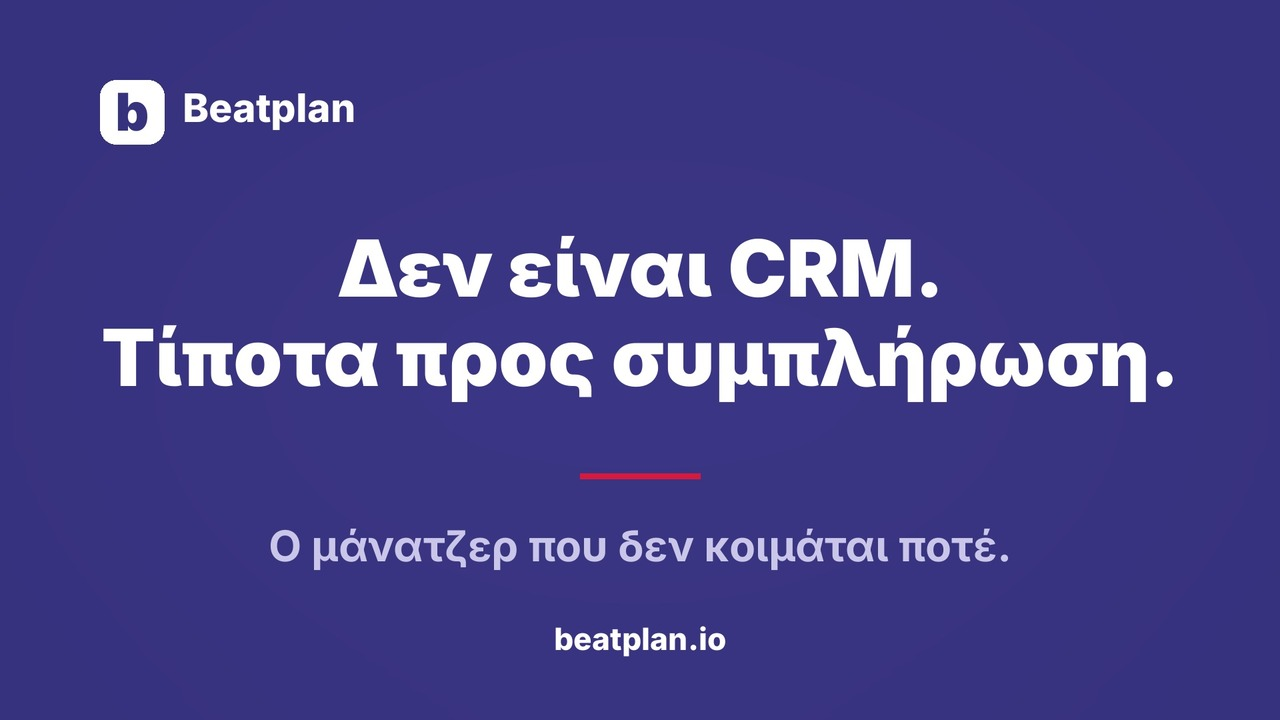
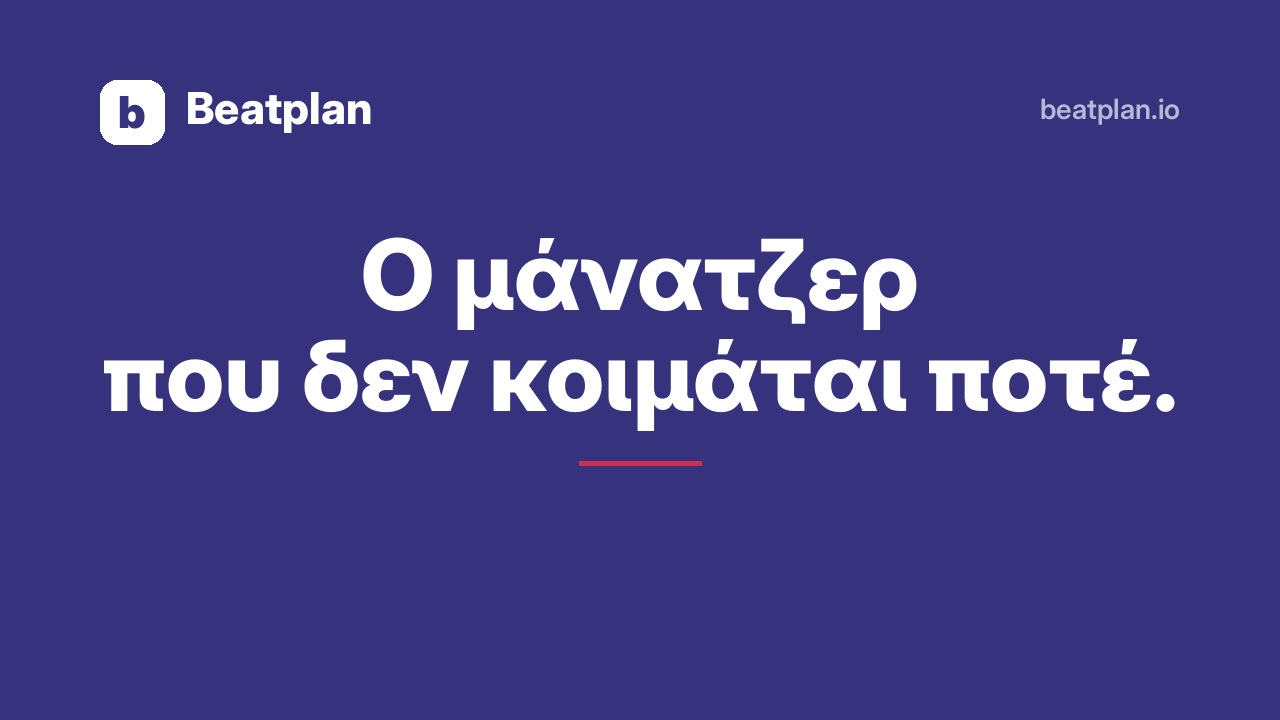
Open on the two minutes, in every market
The video was a separate page reached from a nav link. It is now the first
thing a visitor sees on each market's home page, labelled "Understand Beatplan
in 2 minutes" and carrying that market's own cast: European, African by time
zone, Greek under /el/. /video/ and /el/video/ keep working for links already
sent out, retitled to match.

The hero is four grid children instead of two so the player stacks between the
headline and the lede on a phone, inside the first screen, without the
headline moving. The phone mock stays under the player on desktop, where it
also carries the only data-eu markup on the page.

Poster rebuilt on the tagline: it used to repeat the hero pill word for word,
and its bottom third sat under the browser's own control bar.

Claude-Session: https://claude.ai/code/session_01BX3qPKaZ8uLsjM8UpPPava

diff --git a/el/index.html b/el/index.html
@@ -34,7 +34,7 @@
       <a href="#does">Τι κάνει</a>
       <a href="#scenarios">Περιπτώσεις</a>
       <a href="#custom">Προσαρμογή</a>
-      <a href="/el/video/">Το βίντεο</a>
+      <a href="#watch">Σε 2 λεπτά</a>
       <a href="#start">Αξιολόγηση</a>
       <a href="/?lang=en" hreflang="en">EN</a>
     </nav>
@@ -46,17 +46,60 @@
 <section class="hero">
   <div class="wrap">
   <div class="hero-grid">
-    <div>
+    <div class="hero-copy">
       <div class="pill"><span class="dot"></span> Δεν είναι CRM. Τίποτα προς συμπλήρωση.</div>
       <h1>Κάθε πρωί, το πλάνο.<br>Όχι άλλη μια βάση δεδομένων.</h1>
-      <p class="lede" style="margin-top:1.2rem">
+    </div>
+
+    <div class="hero-vid">
+      <div class="herovid" id="watch">
+        <p class="vlabel">Καταλάβετε το Beatplan σε 2 λεπτά</p>
+        <video controls playsinline preload="none"
+               poster="/img/beatplan-video-el-poster.jpg">
+          <source src="/img/beatplan-video-el.mp4" type="video/mp4">
+          Ο browser σας δεν μπορεί να το παίξει. <a href="/el/video/">Ανοίξτε το σε δική του σελίδα.</a>
+        </video>
+        <p class="caption">Τι ανοίγει ο πωλητής, τι ανοίγουν οι εισπράξεις, τι βλέπει η διοίκηση,
+          και τι υπολόγισε το Beatplan μέσα στη νύχτα.</p>
+      </div>
+
+      <div class="herodev">
+        <div class="device">
+          <div class="device-top"><strong>Σήμερα</strong><span>Τρίτη &middot; 9 κλήσεις</span></div>
+          <div class="device-body">
+            <div class="row">
+              <div class="row-head"><span class="row-name">Αρτοποιία Λενάκη</span><span class="row-val">&euro;14.200 / έτος</span></div>
+              <p class="row-why">Καμία παραγγελία 7 εβδομάδες. Συνήθως παραγγέλνει κάθε 12 ημέρες.</p>
+              <span class="tag tag-brand">Αγοράζει συνήθως: αλεύρι, μαγιά, συσκευασία</span>
+            </div>
+            <div class="row">
+              <div class="row-head"><span class="row-name">Μίνι Μάρκετ Ριζάκη</span><span class="row-val">&euro;8.900 οφειλή</span></div>
+              <p class="row-why">Υποσχέθηκε πληρωμή την περασμένη Παρασκευή. Δεν ήρθε τίποτα.</p>
+              <span class="tag tag-alarm">60 ημέρες ληξιπρόθεσμο</span>
+            </div>
+            <div class="row">
+              <div class="row-head"><span class="row-name">Τρόφιμα Βορρά</span><span class="row-val">&euro;21.400 / έτος</span></div>
+              <p class="row-why">Παρήγγελνε ζάχαρη κάθε μήνα επί δύο χρόνια. Τίποτα από τον Μάρτιο.</p>
+              <span class="tag tag-alarm">Μην προσφέρετε Ηλιέλαιο 5L, έχουμε έλλειψη</span>
+            </div>
+          </div>
+        </div>
+        <p class="caption">Η πραγματική οθόνη που ανοίγει ο πωλητής σας. Χωρίς dashboard, χωρίς πεδίο αναζήτησης.</p>
+      </div>
+    </div>
+
+    <div class="hero-lede">
+      <p class="lede">
         Στη διανομή, <em>beat</em> λέγεται ο γύρος που καλύπτει ένας πωλητής, και από εκεί ξεκίνησε.
         Σήμερα τρέχει με τον ίδιο τρόπο και την υπόλοιπη εταιρεία: διαβάζει τα αρχεία που ήδη
         παράγετε, βρίσκει τι ξέφυγε, και δίνει σε κάθε άνθρωπο και κάθε τμήμα
         <strong style="color:var(--ink)">τη λίστα του για το πρωί, με τον λόγο γραμμένο δίπλα</strong>.
         Χωρίς pipeline. Χωρίς στάδια. Χωρίς να συμπληρώσει κανείς τίποτα πρώτα.
       </p>
-      <div class="btn-row" style="margin-top:2rem">
+    </div>
+
+    <div class="hero-cta">
+      <div class="btn-row">
         <a class="btn btn-solid btn-lg" href="/el/assessment/">Ζητήστε αξιολόγηση</a>
         <a class="btn btn-ghost btn-lg" href="#how">Πώς δουλεύει</a>
       </div>
@@ -67,29 +110,6 @@
         <span>Κάθε τμήμα, όχι μόνο οι πωλήσεις</span>
         <span>Τιμή ανά εταιρεία</span>
       </div>
-    </div>
-    <div>
-      <div class="device">
-        <div class="device-top"><strong>Σήμερα</strong><span>Τρίτη · 9 κλήσεις</span></div>
-        <div class="device-body">
-          <div class="row">
-            <div class="row-head"><span class="row-name">Αρτοποιία Λενάκη</span><span class="row-val">€14.200 / έτος</span></div>
-            <p class="row-why">Καμία παραγγελία 7 εβδομάδες. Συνήθως παραγγέλνει κάθε 12 ημέρες.</p>
-            <span class="tag tag-brand">Αγοράζει συνήθως: αλεύρι, μαγιά, συσκευασία</span>
-          </div>
-          <div class="row">
-            <div class="row-head"><span class="row-name">Μίνι Μάρκετ Ριζάκη</span><span class="row-val">€8.900 οφειλή</span></div>
-            <p class="row-why">Υποσχέθηκε πληρωμή την περασμένη Παρασκευή. Δεν ήρθε τίποτα.</p>
-            <span class="tag tag-alarm">60 ημέρες ληξιπρόθεσμο</span>
-          </div>
-          <div class="row">
-            <div class="row-head"><span class="row-name">Τρόφιμα Βορρά</span><span class="row-val">€21.400 / έτος</span></div>
-            <p class="row-why">Παρήγγελνε ζάχαρη κάθε μήνα επί δύο χρόνια. Τίποτα από τον Μάρτιο.</p>
-            <span class="tag tag-alarm">Μην προσφέρετε Ηλιέλαιο 5L, έχουμε έλλειψη</span>
-          </div>
-        </div>
-      </div>
-      <p class="caption">Η πραγματική οθόνη που ανοίγει ο πωλητής σας. Χωρίς dashboard, χωρίς πεδίο αναζήτησης.</p>
     </div>
   </div>
   </div>
@@ -408,9 +428,9 @@
       </div>
     </div>
     <p class="small" style="margin:-2rem 0 3.2rem">
-        Αυτό ήταν το προϊόν σε είκοσι δευτερόλεπτα. <a href="/el/video/"><strong>Δείτε ολόκληρο το
-        βίντεο των δύο λεπτών</strong></a>: τι ανοίγει κάθε τμήμα το πρωί, και τι υπολόγισε το
-        Beatplan μέσα στη νύχτα.
+        Αυτό ήταν το προϊόν σε είκοσι δευτερόλεπτα. <a href="#watch"><strong>Τα δύο λεπτά στην
+        κορυφή της σελίδας</strong></a> δείχνουν τι ανοίγει κάθε τμήμα το πρωί, και τι υπολόγισε
+        το Beatplan μέσα στη νύχτα.
       </p>
 
     <div class="shots">

diff --git a/index.html b/index.html
@@ -54,7 +54,7 @@
       <a href="#scenarios">Scenarios</a>
       <a href="#custom">Customisation</a>
       <a href="#see">See it</a>
-      <a href="/video/">The video</a>
+      <a href="#watch">In 2 minutes</a>
       <a href="#start">Assessment</a>
     </nav>
     <a class="btn btn-ghost" href="https://app.beatplan.io/">Sign in</a>
@@ -64,17 +64,60 @@
 <!-- hero -->
 <div class="wrap hero">
   <div class="hero-grid">
-    <div>
+    <div class="hero-copy">
       <div class="pill"><span class="dot"></span> Not a CRM. Nothing to fill in.</div>
       <h1>Every morning, the plan.<br>Not another database.</h1>
-      <p class="lede" style="margin-top:1.2rem">
+    </div>
+
+    <div class="hero-vid">
+      <div class="herovid" id="watch">
+        <p class="vlabel">Understand Beatplan in 2 minutes</p>
+        <video id="launch" controls playsinline preload="none"
+               poster="/img/beatplan-video-en-poster.jpg">
+          <source id="launchsrc" src="/img/beatplan-video-en.mp4" type="video/mp4">
+          Your browser cannot play this. <a href="/video/">Open it on its own page.</a>
+        </video>
+        <p class="caption">What the salesman opens, what collections opens, what ownership sees,
+          and what Beatplan worked out during the night.</p>
+      </div>
+
+      <div class="herodev">
+        <div class="device">
+          <div class="device-top"><strong>Today</strong><span>Tuesday &middot; 9 to call</span></div>
+          <div class="device-body">
+            <div class="row">
+              <div class="row-head"><span class="row-name" data-eu="Boulangerie Lenoir">Riverside Bakery</span><span class="row-val" data-eu="&euro;14,200 / yr">$14,200 / yr</span></div>
+              <p class="row-why">No order for 7 weeks. Usually orders every 12 days.</p>
+              <span class="tag tag-brand">Usually buys: flour, yeast, packaging</span>
+            </div>
+            <div class="row">
+              <div class="row-head"><span class="row-name" data-eu="Mercado Ribeiro">Meridian Superstores</span><span class="row-val" data-eu="&euro;8,900 owing">$8,900 owing</span></div>
+              <p class="row-why">Promised payment last Friday. Nothing received.</p>
+              <span class="tag tag-alarm">60 days overdue</span>
+            </div>
+            <div class="row">
+              <div class="row-head"><span class="row-name" data-eu="Nordkern Lebensmittel">Northgate Foods</span><span class="row-val" data-eu="&euro;21,400 / yr">$21,400 / yr</span></div>
+              <p class="row-why">Ordered sugar monthly for two years. Nothing since March.</p>
+              <span class="tag tag-alarm">Do not offer Sunflower Oil 5L, we are short</span>
+            </div>
+          </div>
+        </div>
+        <p class="caption">The actual screen your salesman opens. No dashboard, no search box.</p>
+      </div>
+    </div>
+
+    <div class="hero-lede">
+      <p class="lede">
         A <em>beat</em> is the round a salesman covers, and that is where this started. It now runs
         the rest of the company the same way: it reads the records you already produce, works out
         what has slipped, and hands every person and every department
         <strong style="color:var(--ink)">their list for the morning, with the reason attached</strong>.
         No pipeline. No stages. Nothing to fill in before it works.
       </p>
-      <div class="btn-row" style="margin-top:2rem">
+    </div>
+
+    <div class="hero-cta">
+      <div class="btn-row">
         <a class="btn btn-solid btn-lg" href="/assessment/">Book an assessment</a>
         <a class="btn btn-ghost btn-lg" href="#how">How it works</a>
       </div>
@@ -85,29 +128,6 @@
         <span>Every department, not only sales</span>
         <span>Priced per company</span>
       </div>
-    </div>
-    <div>
-      <div class="device">
-        <div class="device-top"><strong>Today</strong><span>Tuesday · 9 to call</span></div>
-        <div class="device-body">
-          <div class="row">
-            <div class="row-head"><span class="row-name" data-eu="Boulangerie Lenoir">Riverside Bakery</span><span class="row-val" data-eu="€14,200 / yr">$14,200 / yr</span></div>
-            <p class="row-why">No order for 7 weeks. Usually orders every 12 days.</p>
-            <span class="tag tag-brand">Usually buys: flour, yeast, packaging</span>
-          </div>
-          <div class="row">
-            <div class="row-head"><span class="row-name" data-eu="Mercado Ribeiro">Meridian Superstores</span><span class="row-val" data-eu="€8,900 owing">$8,900 owing</span></div>
-            <p class="row-why">Promised payment last Friday. Nothing received.</p>
-            <span class="tag tag-alarm">60 days overdue</span>
-          </div>
-          <div class="row">
-            <div class="row-head"><span class="row-name" data-eu="Nordkern Lebensmittel">Northgate Foods</span><span class="row-val" data-eu="€21,400 / yr">$21,400 / yr</span></div>
-            <p class="row-why">Ordered sugar monthly for two years. Nothing since March.</p>
-            <span class="tag tag-alarm">Do not offer Sunflower Oil 5L, we are short</span>
-          </div>
-        </div>
-      </div>
-      <p class="caption">The actual screen your salesman opens. No dashboard, no search box.</p>
     </div>
   </div>
 </div>
@@ -419,9 +439,9 @@
       </div>
     </div>
     <p class="small" style="margin:-2rem 0 3.2rem">
-        That was the product in twenty seconds. <a href="/video/"><strong>Watch the full two minute
-        video</strong></a> for what each department opens in the morning, and what Beatplan worked
-        out during the night.
+        That was the product in twenty seconds. <a href="#watch"><strong>The two minutes at the top
+        of this page</strong></a> show what each department opens in the morning, and what Beatplan
+        worked out during the night.
       </p>
 
     <div class="shots">
@@ -628,6 +648,17 @@
       location.replace('/el/'); return;
     }
   } catch (e) { if (tz === 'Europe/Athens' && location.search.indexOf('lang=en') === -1) { location.replace('/el/'); return; } }
+
+  /* Casting is per market, so an African visitor must not be watching the
+     European cut. Same time zone test and the same file as /video/ uses.
+     This sits ABOVE the Europe guard deliberately: below it an Africa/ zone
+     returns one line earlier and the swap would silently never run. The swap
+     is safe after parsing because preload is none, so no bytes have been
+     fetched for either cut until the visitor presses play. */
+  if (/^Africa\//.test(tz)) {
+    var av = document.getElementById('launch'), asrc = document.getElementById('launchsrc');
+    if (av && asrc) { asrc.src = '/img/beatplan-video-af.mp4'; av.load(); }
+  }
 
   if (!/^Europe\//.test(tz)) return;
   document.documentElement.setAttribute('data-region', 'eu');

diff --git a/app.css b/app.css
@@ -49,9 +49,27 @@ header{position:sticky; top:0; z-index:50; background:rgba(255,255,255,.9); back
 .btn-ghost{border-color:var(--line); color:var(--ink); background:#fff}
 .btn-lg{padding:.95rem 1.8rem; font-size:1.02rem}
 .btn-row{display:flex; flex-wrap:wrap; gap:.8rem}
-.hero{padding:4.5rem 0 4rem}
-.hero-grid{display:grid; gap:3.5rem; align-items:center}
-@media(min-width:960px){.hero-grid{grid-template-columns:1.05fr .95fr; gap:4rem}}
+/* padding-block, not the padding shorthand. On the English page the classes
+   are on one element, <div class="wrap hero">, and the shorthand's 0 wiped the
+   1.5rem side padding .wrap supplies: at 390px the headline and now the video
+   ran edge to edge with no gutter. The Greek page nests them and never showed
+   it. Logical axis only, so .wrap keeps the inline padding. */
+.hero{padding-block:4.5rem 4rem}
+/* Four children, not two: the headline, the video, the lede and the call to
+   action. On a phone they stack in DOM order, so the player sits between the
+   headline and the explanation and is fully inside the first screen. Stacked
+   any later it fell below the fold: the Greek lede alone runs ten lines at
+   390px. The headline still comes first and is never pushed off.
+   On desktop the video is placed explicitly in column two and spans all three
+   rows, so the left column still reads headline, lede, buttons. */
+.hero-grid{display:grid; gap:1.8rem}
+@media(min-width:960px){
+  .hero-grid{grid-template-columns:1.05fr .95fr; column-gap:4rem; row-gap:1.4rem; align-items:start}
+  .hero-copy{grid-column:1; grid-row:1}
+  .hero-lede{grid-column:1; grid-row:2}
+  .hero-cta {grid-column:1; grid-row:3; margin-top:.8rem}
+  .hero-vid {grid-column:2; grid-row:1 / span 3; align-self:center}
+}
 .pill{display:inline-flex; align-items:center; gap:.5rem; background:var(--brand-soft); color:var(--brand-ink);
   border-radius:999px; padding:.4rem .9rem; font-size:.82rem; font-weight:600; margin-bottom:1.5rem}
 .dot{width:7px;height:7px;border-radius:50%;background:var(--good)}
@@ -132,3 +150,24 @@ footer{border-top:1px solid var(--line); padding:3rem 0 4rem; font-size:.9rem}
 .vidwrap video{width:100%;max-width:300px;border:1px solid #e3e3ee;border-radius:18px;
   box-shadow:0 10px 30px rgba(20,20,45,.10);display:block;margin:0 auto;background:#fff}
 .vidwrap h3{margin:0 0 .6rem}
+
+/* The two minute video, in the hero of every market's home page (22 Oct 2026).
+   aspect-ratio reserves the 16:9 box before the poster paints, so the hero
+   does not reflow under the visitor on a slow connection, and the background
+   is the brand purple rather than black because the poster is brand purple:
+   a black flash on first paint reads as a broken file. */
+.herovid{max-width:34rem; margin:0 auto; width:100%; scroll-margin-top:6rem}
+.herovid video{width:100%; aspect-ratio:16/9; display:block; background:#37327e;
+  border:1px solid var(--line); border-radius:16px; box-shadow:var(--shadow-lg)}
+.vlabel{margin:0 0 .75rem; text-align:center; font-weight:800; font-size:1.05rem;
+  letter-spacing:-.01em; color:var(--ink)}
+
+/* The phone mock keeps its place under the player on desktop, where the right
+   column is taller than the video and would otherwise end in dead white. It is
+   hidden on a phone so the hero stays short and the lede is still reachable:
+   the same screens appear as pictures in See it a little further down.
+   It is also the only markup on the page carrying data-eu, so without it a
+   European visitor's euros and European company names have nothing to swap
+   into and that localisation quietly does nothing. */
+.herodev{display:none}
+@media(min-width:960px){.herodev{display:block; margin-top:2.6rem}}

diff --git a/el/video/index.html b/el/video/index.html
@@ -3,12 +3,12 @@
 <head>
 <meta charset="utf-8">
 <meta name="viewport" content="width=device-width, initial-scale=1">
-<title>Beatplan, το βίντεο</title>
+<title>Καταλάβετε το Beatplan σε 2 λεπτά</title>
 <meta name="description" content="Δύο λεπτά: τι βλέπει κάθε τμήμα το πρωί, και τι πιάνει το Beatplan μέσα στη νύχτα.">
 <!-- The card LinkedIn and WhatsApp draw when this page is pasted. Without it
      they pick a frame or nothing at all; the poster is the branded still. -->
 <meta property="og:type" content="video.other">
-<meta property="og:title" content="Beatplan, το βίντεο">
+<meta property="og:title" content="Καταλάβετε το Beatplan σε 2 λεπτά">
 <meta property="og:description" content="Δύο λεπτά: τι βλέπει κάθε τμήμα το πρωί, και τι πιάνει το Beatplan μέσα στη νύχτα.">
 <meta property="og:url" content="https://beatplan.io/el/video/">
 <meta property="og:image" content="https://beatplan.io/img/beatplan-video-el-poster.jpg">
@@ -40,19 +40,19 @@
 
 <section>
   <div class="wrap videowrap">
-    <p class="eyebrow">Το βίντεο, δύο λεπτά</p>
+    <p class="eyebrow">Καταλάβετε το Beatplan σε 2 λεπτά</p>
     <h1>Κάθε πρωί, το πλάνο.</h1>
     <p class="lede">Τι ανοίγει ο πωλητής, τι ανοίγει το λογιστήριο, τι βλέπει η διοίκηση, και τι
       υπολόγισε το Beatplan όσο κοιμόσασταν.</p>
 
     <video controls playsinline preload="none" poster="/img/beatplan-video-el-poster.jpg">
       <source src="/img/beatplan-video-el.mp4" type="video/mp4">
-      Ο browser σας δεν μπορεί να παίξει το βίντεο.
+      Ο browser σας δεν μπορεί να το παίξει.
     </video>
 
     <div class="notes">
       <div>
-        <h3>Η εταιρεία μέσα στο βίντεο δεν υπάρχει</h3>
+        <h3>Η εταιρεία στην οθόνη δεν υπάρχει</h3>
         <p class="small">Οι οθόνες είναι το πραγματικό λογισμικό, αλλά τα δεδομένα είναι εταιρείας
           επίδειξης: πελάτες, είδη, τιμές και υπόλοιπα φτιαγμένα γι' αυτόν τον σκοπό. Δεν δείχνουμε
           τα στοιχεία κανενός πελάτη μας σε κανέναν.</p>

diff --git a/video/index.html b/video/index.html
@@ -3,12 +3,12 @@
 <head>
 <meta charset="utf-8">
 <meta name="viewport" content="width=device-width, initial-scale=1">
-<title>Beatplan, the video</title>
+<title>Understand Beatplan in 2 minutes</title>
 <meta name="description" content="Two minutes: what every department opens in the morning, and what Beatplan caught during the night.">
 <!-- The card LinkedIn and WhatsApp draw when this page is pasted. Without it
      they pick a frame or nothing at all; the poster is the branded still. -->
 <meta property="og:type" content="video.other">
-<meta property="og:title" content="Beatplan, the video">
+<meta property="og:title" content="Understand Beatplan in 2 minutes">
 <meta property="og:description" content="Two minutes: what every department opens in the morning, and what Beatplan caught during the night.">
 <meta property="og:url" content="https://beatplan.io/video/">
 <meta property="og:image" content="https://beatplan.io/img/beatplan-video-en-poster.jpg">
@@ -40,26 +40,26 @@
 
 <section>
   <div class="wrap videowrap">
-    <p class="eyebrow">The video, two minutes</p>
+    <p class="eyebrow">Understand Beatplan in 2 minutes</p>
     <h1>Every morning, the plan.</h1>
     <p class="lede">What the salesman opens, what collections opens, what ownership sees, and what
       Beatplan worked out while you were asleep.</p>
 
     <video id="launch" controls playsinline preload="none" poster="/img/beatplan-video-en-poster.jpg">
       <source id="launchsrc" src="/img/beatplan-video-en.mp4" type="video/mp4">
-      Your browser cannot play this video.
+      Your browser cannot play this.
     </video>
 
     <div class="notes">
       <div>
-        <h3>The company in this video does not exist</h3>
+        <h3>The company on screen does not exist</h3>
         <p class="small">The screens are the real software, but the data belongs to a demonstration
           company: the customers, the products, the prices and the balances were all invented for
           this. We do not show any customer of ours to anybody.</p>
       </div>
       <div>
         <h3>Nothing in it was typed in by hand</h3>
-        <p class="small">Every list in the video was computed from records the business already
+        <p class="small">Every list on screen was computed from records the business already
           produced. That is the whole argument: your people read the morning, they do not feed it.</p>
       </div>
     </div>
